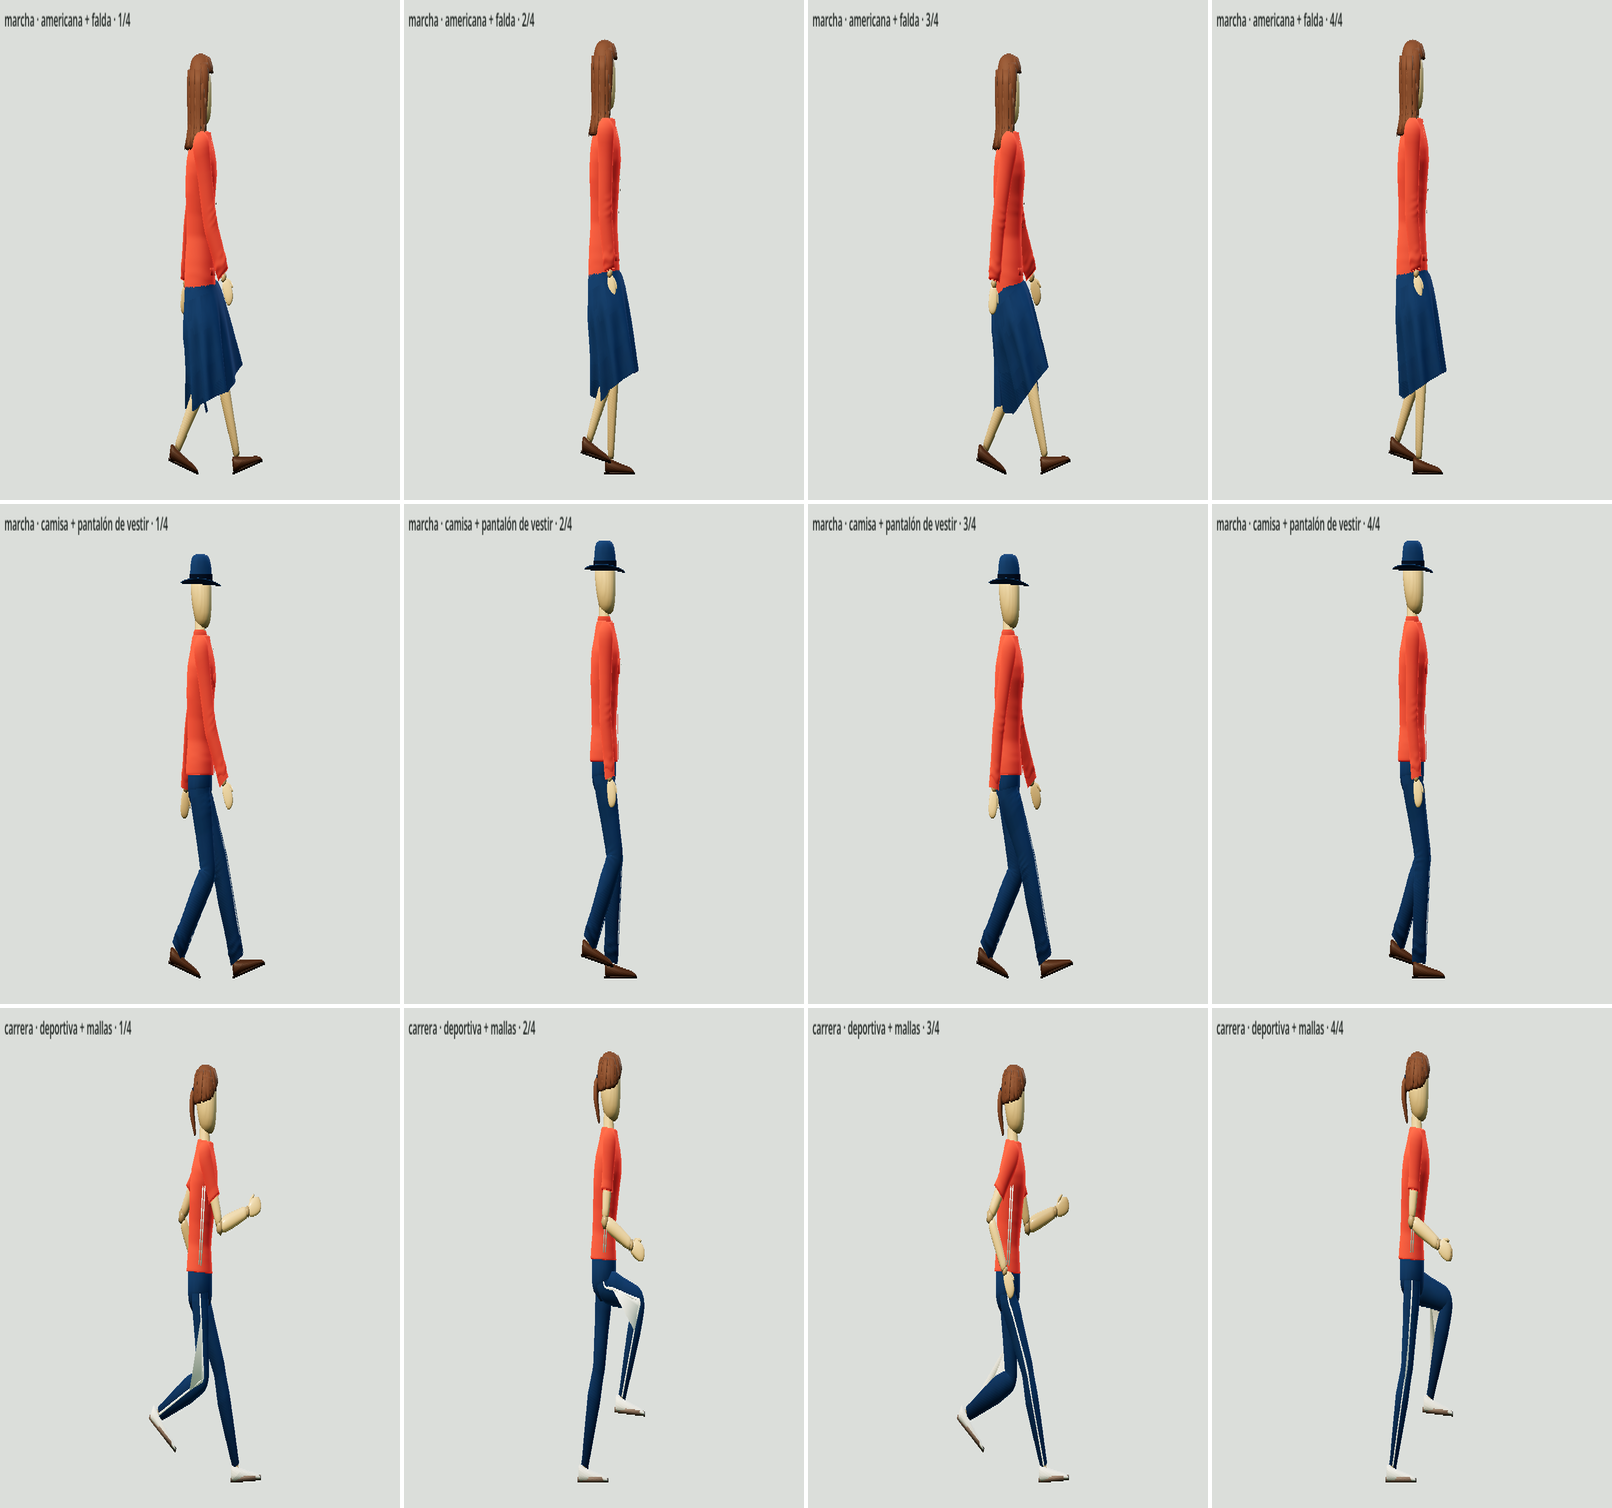
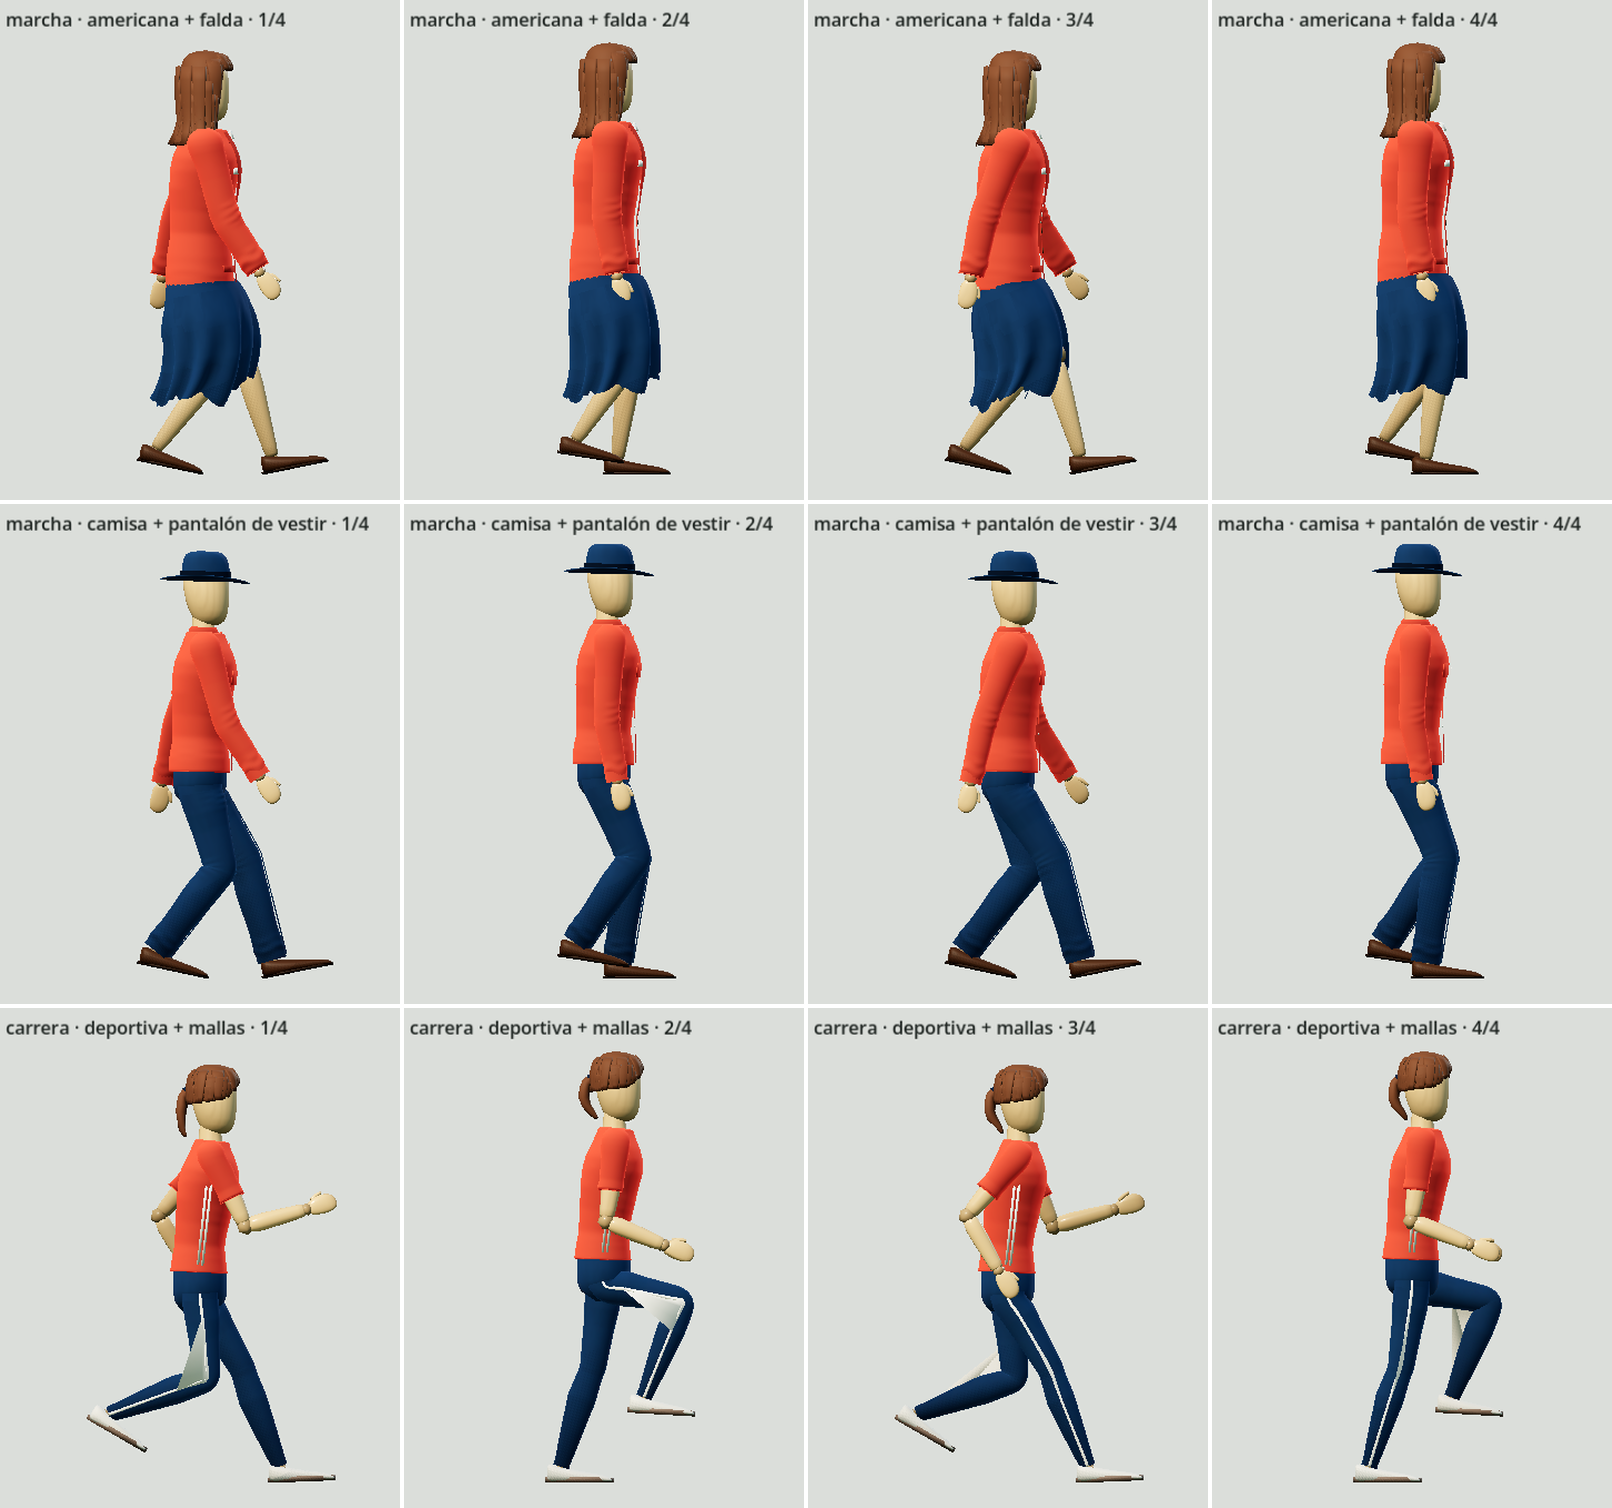
docs: evidencias de personajes regeneradas con sus proporciones reales y hojas del vestuario nuevo; test: AF-A se comprueba con el paseante a la vista

diff --git a/docs/TESTS_Y_VERIFICACION.md b/docs/TESTS_Y_VERIFICACION.md
@@ -138,6 +138,7 @@ Se pasan tras `--` (`godot-4 --path . -- <opción>`):
 | `export_all.sh` | `./tools/export_all.sh [--only windows,linux,macos,android,web] [--debug]` | **Ejecutables para todas las plataformas**: Windows (`build/windows/PhotoHacks.exe`, un solo `.exe` con el juego dentro), Linux (`build/linux/PhotoHacks.x86_64`), macOS (`build/macos/PhotoHacks.zip`, universal, firma ad hoc: la primera vez se abre con clic derecho → Abrir) y Android (`export_android.sh`), más un `.zip` por plataforma de escritorio en `build/dist/`. Presets en `export_presets.cfg` (Forward+ en escritorio, `gl_compatibility` en Android). Necesita las plantillas de exportación de la misma versión que el editor en `~/.local/share/godot/export_templates/<versión>/`; si faltan, lo dice, explica cómo instalarlas y sigue con las demás (no descarga nada). Registro de cada exportación en `build/export_<plataforma>.log`. Las texturas, sonidos, fuentes y `.glb` se leen en bruto en tiempo de ejecución, así que sus `.import` llevan `importer="keep"` (sin copia importada): eso deja el `.exe` en unos 170 MB (109 MB son el propio motor) y su `.zip` en unos 70 MB. Android usa el JDK de `export/android/java_sdk_path` en la configuración del editor de Godot. |
 | `publish_itch.sh` | `./tools/publish_itch.sh [--only windows,linux,mac,android,html5] [--dry-run]` | **Sube a itch.io** ([geese-bumps.itch.io/photohacks](https://geese-bumps.itch.io/photohacks)) lo que dejó `export_all.sh`, con `butler` (`~/bin/butler`), un canal por plataforma y la versión de `export_presets.cfg`; `html5` es el zip web que se juega en la ficha. **Solo bajo demanda**, como los ejecutables. Necesita una sesión de butler (`butler login`, una vez y a mano). `--dry-run` enseña qué subiría sin subir nada. |
 | `compare_renderers.sh` | `./tools/compare_renderers.sh [solo_gl]` | **Forward+ frente a OpenGL**: el mismo plano en los dos renderizadores a las cuatro luces (`build/comparativa/`) y una tabla de brillo, contraste, sombras, luces y saturación. Para calibrar `park.gd::LO_EXPOSURE` y `LO_AMBIENT` ([ESCENARIO](ESCENARIO_Y_RENDIMIENTO.md), última sección). |
+| `capture_wardrobe_video.sh` | `./tools/capture_wardrobe_video.sh` | **Vídeo del vestuario nuevo** (`build/video/vestuario_nuevo.mp4`, 40 s): cada pieza de `capture_characters.gd::NEW_PIECES` da una vuelta de 360°, encuadrada en la parte del cuerpo que cambia, con la versión de escritorio a la izquierda y la ligera a la derecha. Las hojas fijas salen de `capture_characters.gd -- --only=nuevas,nuevas_marcha,gabardina,gafas [--lo]` (`--lo`: piezas ligeras de Android y web). |
 | `capture_slide.gd` | `~/bin/godot-4-fp --path . --disable-vsync --rendering-method forward_plus --resolution 1280x720 --script tools/capture_slide.gd -- --out=<dir> [--view=lado\|frente] [--step=<n>]` | Un bucle completo (13,35 s, 400 fotogramas a 30 FPS) del niño del tobogán en vista lateral, con cámara y luz de relleno propias, para comprobar la animación contra los peldaños y la rampa. Unir con `ffmpeg -framerate 30 -i <dir>/f_%04d.png -c:v libx264 -pix_fmt yuv420p tobogan.mp4`. |
 | `capture_academy_video.sh` | `./tools/capture_academy_video.sh [--only 1,3] [--res 1920x1080] [--out <mp4>]` | Vídeo de la Academia (≈3 min, unos 10 min de grabación): por cada lección, dos páginas de teoría, la demostración completa y la práctica, con `--academy-tour`; rótulo por lección y música del proyecto suave bajo el sonido del juego. |
 | `capture_academy.gd` | `~/bin/godot-4-fp --path . --disable-vsync --rendering-method forward_plus --resolution 1600x900 --script tools/capture_academy.gd [-- --out=<dir>]` | Evidencias de la Academia en `docs/evidencias/academia/`: menú, una página de teoría por lección, cada demostración con sus fotos, las prácticas y el díptico del resultado de la lección 5. Usa un fichero de progreso propio. |

diff --git a/docs/PERSONAJES_Y_CINEMATICA.md b/docs/PERSONAJES_Y_CINEMATICA.md
@@ -249,6 +249,6 @@ Encargo del usuario: dos prendas nuevas, dos peinados, un tocado nuevo y los tre
 - **Banderas del catálogo** que lee el juego: `solo_adultos`, `sin_falda`, `sin_accesorios`, `no_se_sienta` (`Person.never_sits`), `mano_ocupada` (`Person.hand_busy`, `BUSY_ACTIVITY`).
 - **Presupuesto**: la combinación más cargada del nivel ligero pasa de 1.690 a 1.980 triángulos, y el tope sube de 1.900 a **2.000** (un 5 %; el usuario admitía hasta un 10 %). Lo que lo llena son los faldones de la gabardina, que necesitan lados suficientes para que la cadera no asome por sus caras planas. En escritorio el máximo por viandante sigue lejos de los 60.000.
 - **Nada atraviesa la gabardina**: `tools/capture_characters.gd -- --only=gabardina` la saca en los tres cuerpos adultos, en cuatro momentos del paso y desde cuatro lados, en las dos versiones (añadir `--lo` para la ligera). Los faldones ligeros son más anchos que el asiento del pantalón a cualquier altura y solo su banda inferior tiene dos caras.
-- **Evidencias**: `-- --only=nuevas` (hoja `09_piezas_nuevas`), `--only=nuevas_marcha` (mochila, paraguas y tirantes andando; gafas bajo cada tocado), `--only=gafas`, y el vídeo de giros `./tools/capture_wardrobe_video.sh` (cada pieza da una vuelta de 360°, escritorio a la izquierda y versión ligera a la derecha).
+- **Evidencias**: `-- --only=nuevas` (hoja `11_piezas_nuevas`), `--only=nuevas_marcha` (mochila, paraguas y tirantes andando; gafas bajo cada tocado), `--only=gafas`, y el vídeo de giros `./tools/capture_wardrobe_video.sh` (cada pieza da una vuelta de 360°, escritorio a la izquierda y versión ligera a la derecha).
 - **La herramienta de capturas recorta, no estira**: el escritorio no siempre respeta `--resolution 800x1000`, y al estirar la ventana real a la celda de 4:5 los maniquíes salían el doble de altos de lo que son. `grab()` recorta el centro.
 - Los 25 niveles del arcade se siguen superando con el reparto nuevo (`tools/arcade_solver.gd`: 25 de 25) y la Academia jugada pasa entera.
